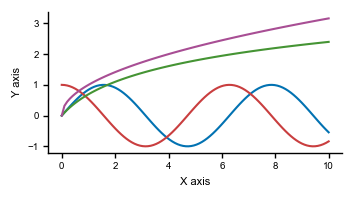
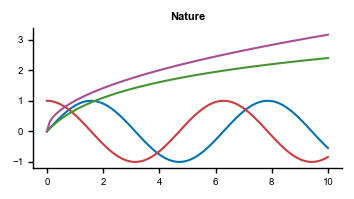
Update

diff --git a/test.py b/test.py
@@ -1,6 +1,7 @@
 import matplotlib.pyplot as plt
 import numpy as np
-import nature_plot_style as nps  
+import nature_plot_style as nps
+import cmcrameri.cm as cmc
 
 # Apply Nature Journal style settings
 nps.set_nature_style()
@@ -23,12 +24,29 @@ y2 = np.cos(x)
 y3 = np.log(x + 1)
 y4 = x ** 0.5
 
-# Creating the plot
+# Creating a plot using Nature-branded colors
 plt.figure(figsize=(width_in_inches, height_in_inches))
 plt.plot(x, y1, label='sin(x)', color=nps.nature_colors['Blue'][3])
 plt.plot(x, y2, label='cos(x)', color=nps.nature_colors['Red'][3])
 plt.plot(x, y3, label='log(x+1)', color=nps.nature_colors['Green'][3])
 plt.plot(x, y4, label='x^0.5', color=nps.nature_colors['Purple'][3])
+plt.title('Nature')
+# EXPORT
+# Save to PDF
+plt.savefig('test.pdf', bbox_inches='tight', pad_inches=0.05)
+
+
+# Generating a color palette from the 'batlow' colormap
+n_colors = 4  # Number of colors in the palette
+colors = [cmc.batlow(i/n_colors) for i in range(n_colors)]
+
+# Creating a plot using batlow colors
+plt.figure(figsize=(width_in_inches, height_in_inches))
+plt.plot(x, y1, label='sin(x)', color=colors[0])
+plt.plot(x, y2, label='cos(x)', color=colors[1])
+plt.plot(x, y3, label='log(x+1)', color=colors[2])
+plt.plot(x, y4, label='x^0.5', color=colors[3])
+plt.title('Batlow')
 
 # Adding title and labels
 plt.xlabel('X axis')
@@ -36,10 +54,6 @@ plt.ylabel('Y axis')
 
 # Tight layout
 plt.tight_layout()
-
-# EXPORT
-# Save to PDF
-plt.savefig('test.pdf', bbox_inches='tight', pad_inches=0.05)
 
 # Display the plot
 plt.show()

diff --git a/nature_plot_style.py b/nature_plot_style.py
@@ -9,6 +9,7 @@ def set_nature_style():
         'font.family': 'Arial',
         'font.size': 8,
         'axes.titlesize': 8,
+        'axes.titleweight': 'bold',
         'axes.labelsize': 8,
         'xtick.labelsize': 7,
         'ytick.labelsize': 7,
@@ -66,7 +67,7 @@ def plot_palette(ax, palettes, title):
     ax.set_ylim(0, num_palettes)
     ax.set_xticks([])
     ax.set_yticks([])
-    ax.set_title(title, loc='center', fontsize=8, fontweight='bold')
+    ax.set_title(title, loc='center')
     ax.spines['top'].set_visible(False)
     ax.spines['right'].set_visible(False)
     ax.spines['bottom'].set_visible(False)

diff --git a/README.md b/README.md
@@ -54,6 +54,16 @@ nps.nature_colors['Yellow'][3]
 nps.nature_colors['Purple'][3]
 ```
 
+We can also use `batlow` colors from [cmcrameri](https://pypi.org/project/cmcrameri/).
+
+```
+import cmcrameri.cm as cmc
+
+# Generating a color palette from the 'batlow' colormap
+n_colors = 4  # Number of colors in the palette
+colors = [cmc.batlow(i/n_colors) for i in range(n_colors)]
+```
+
 4. Export to PDF. For example:
 
 ```
